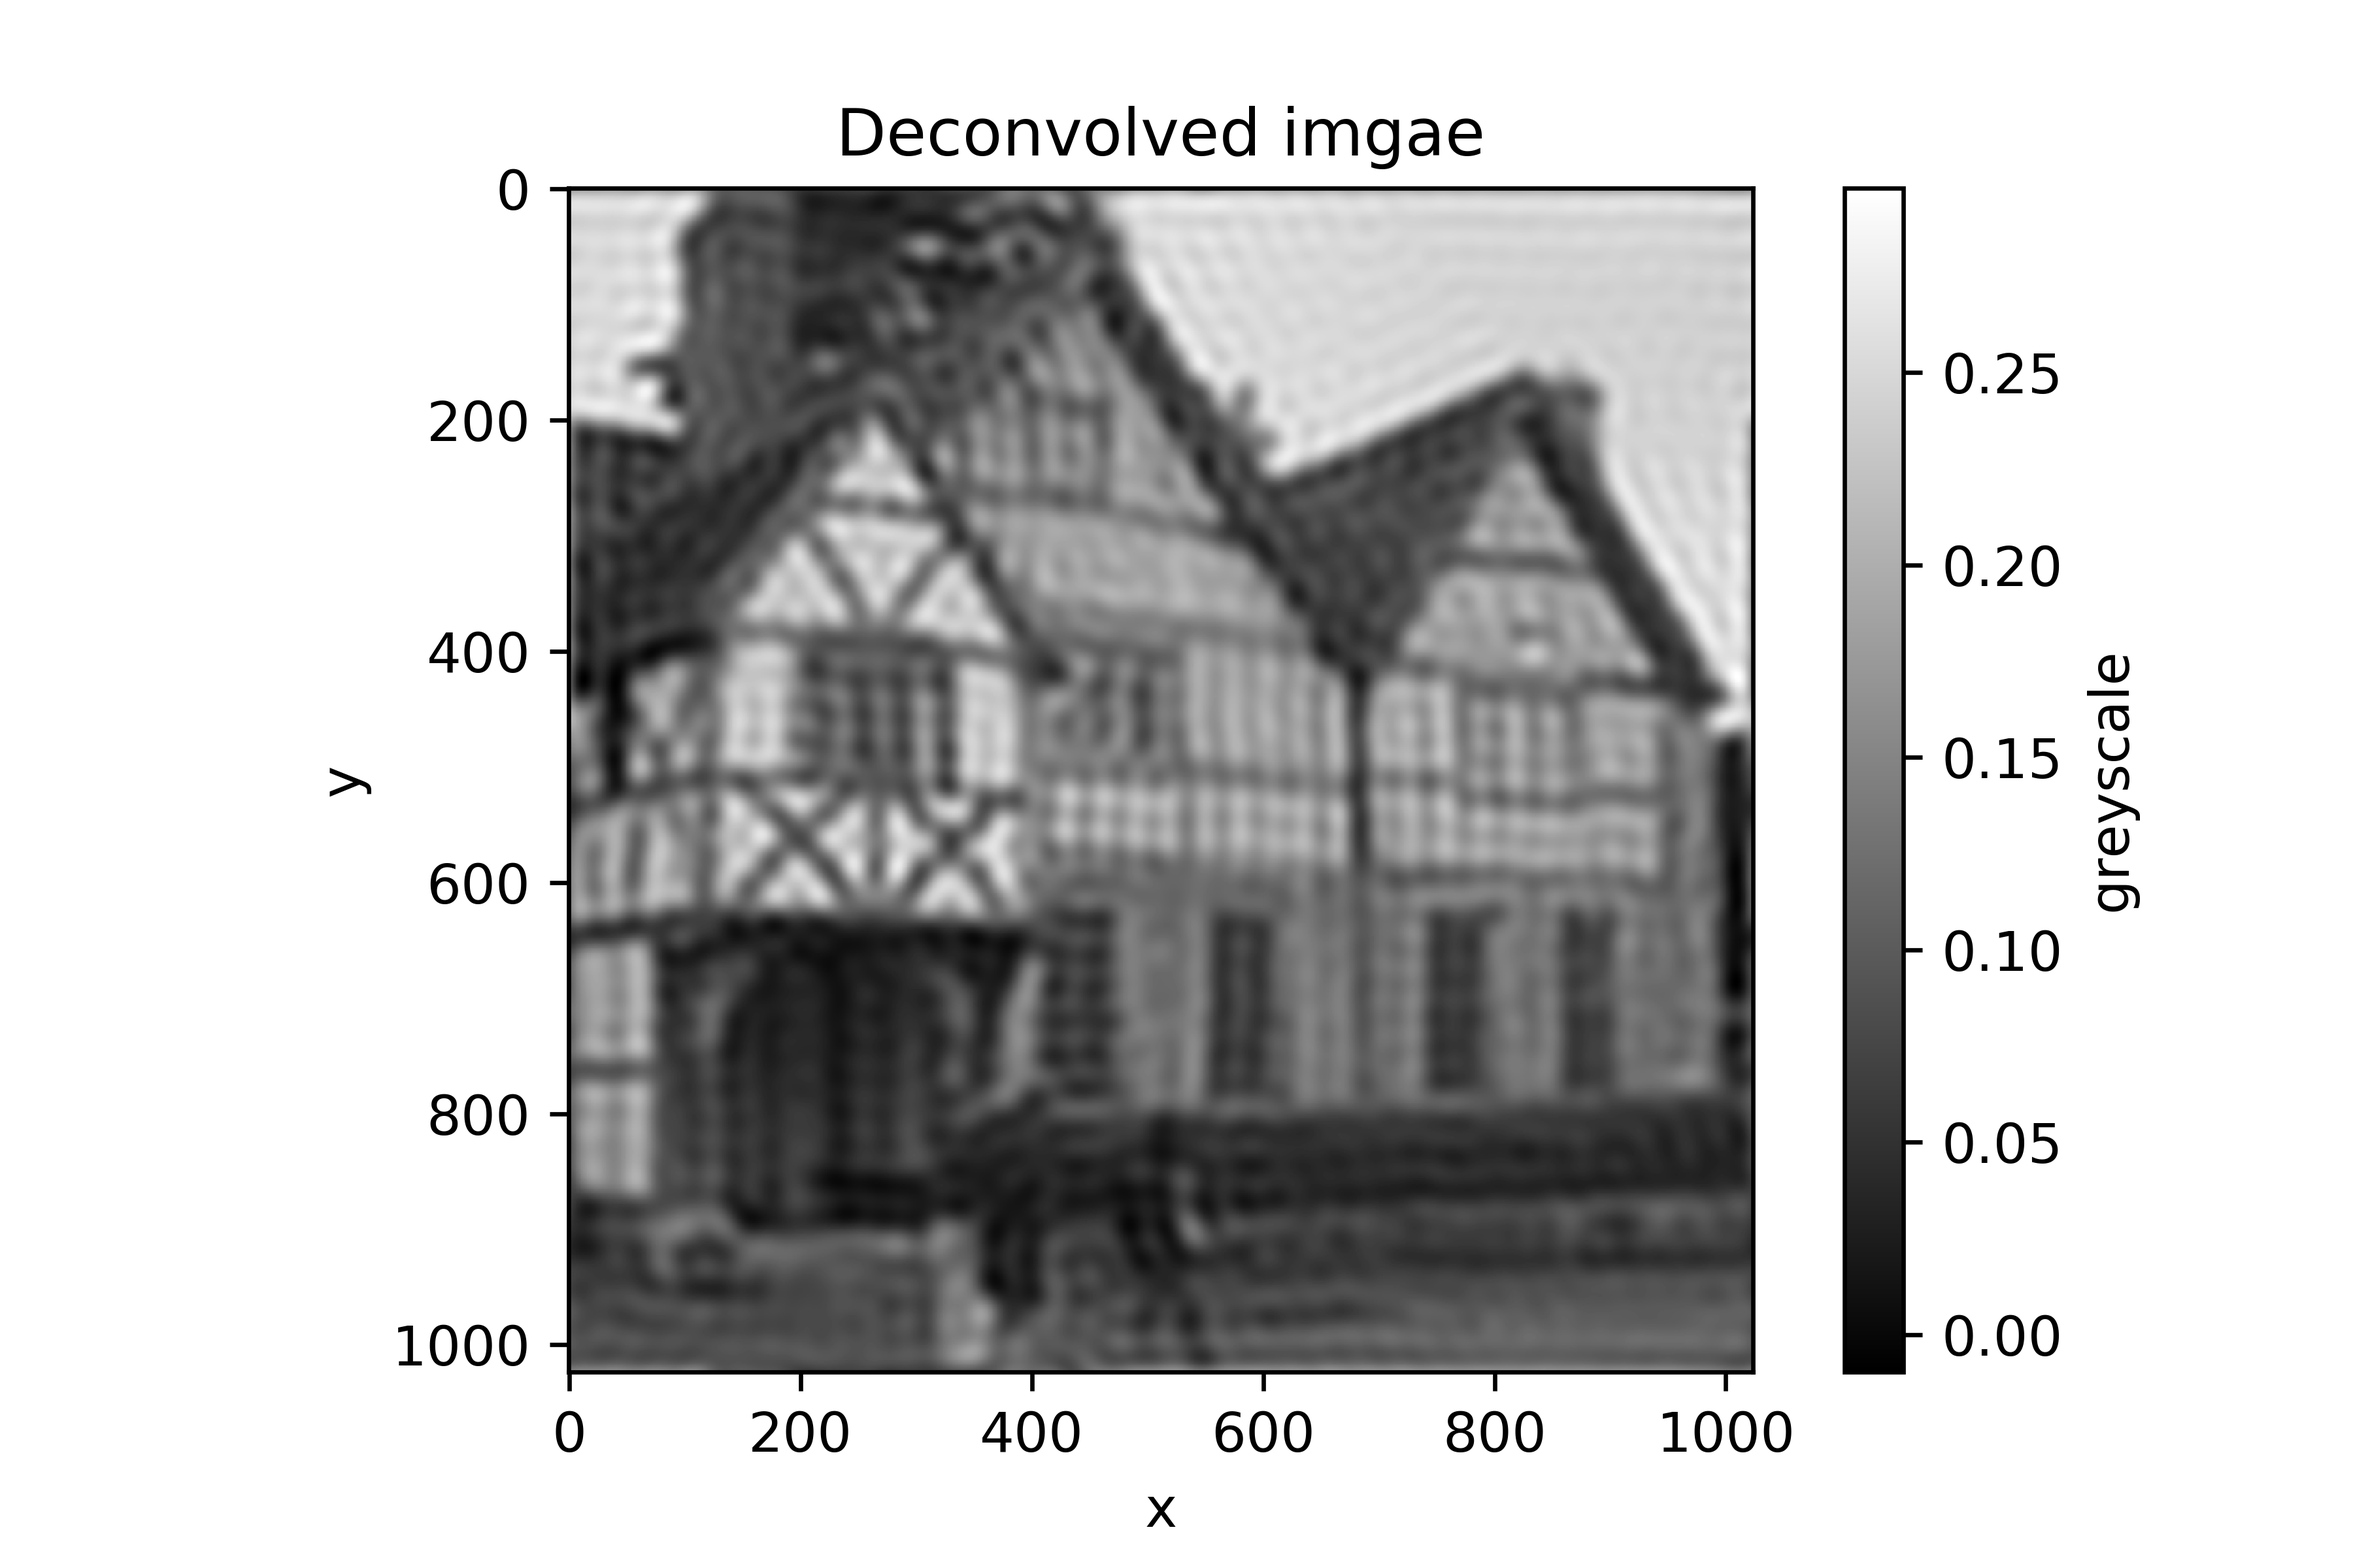
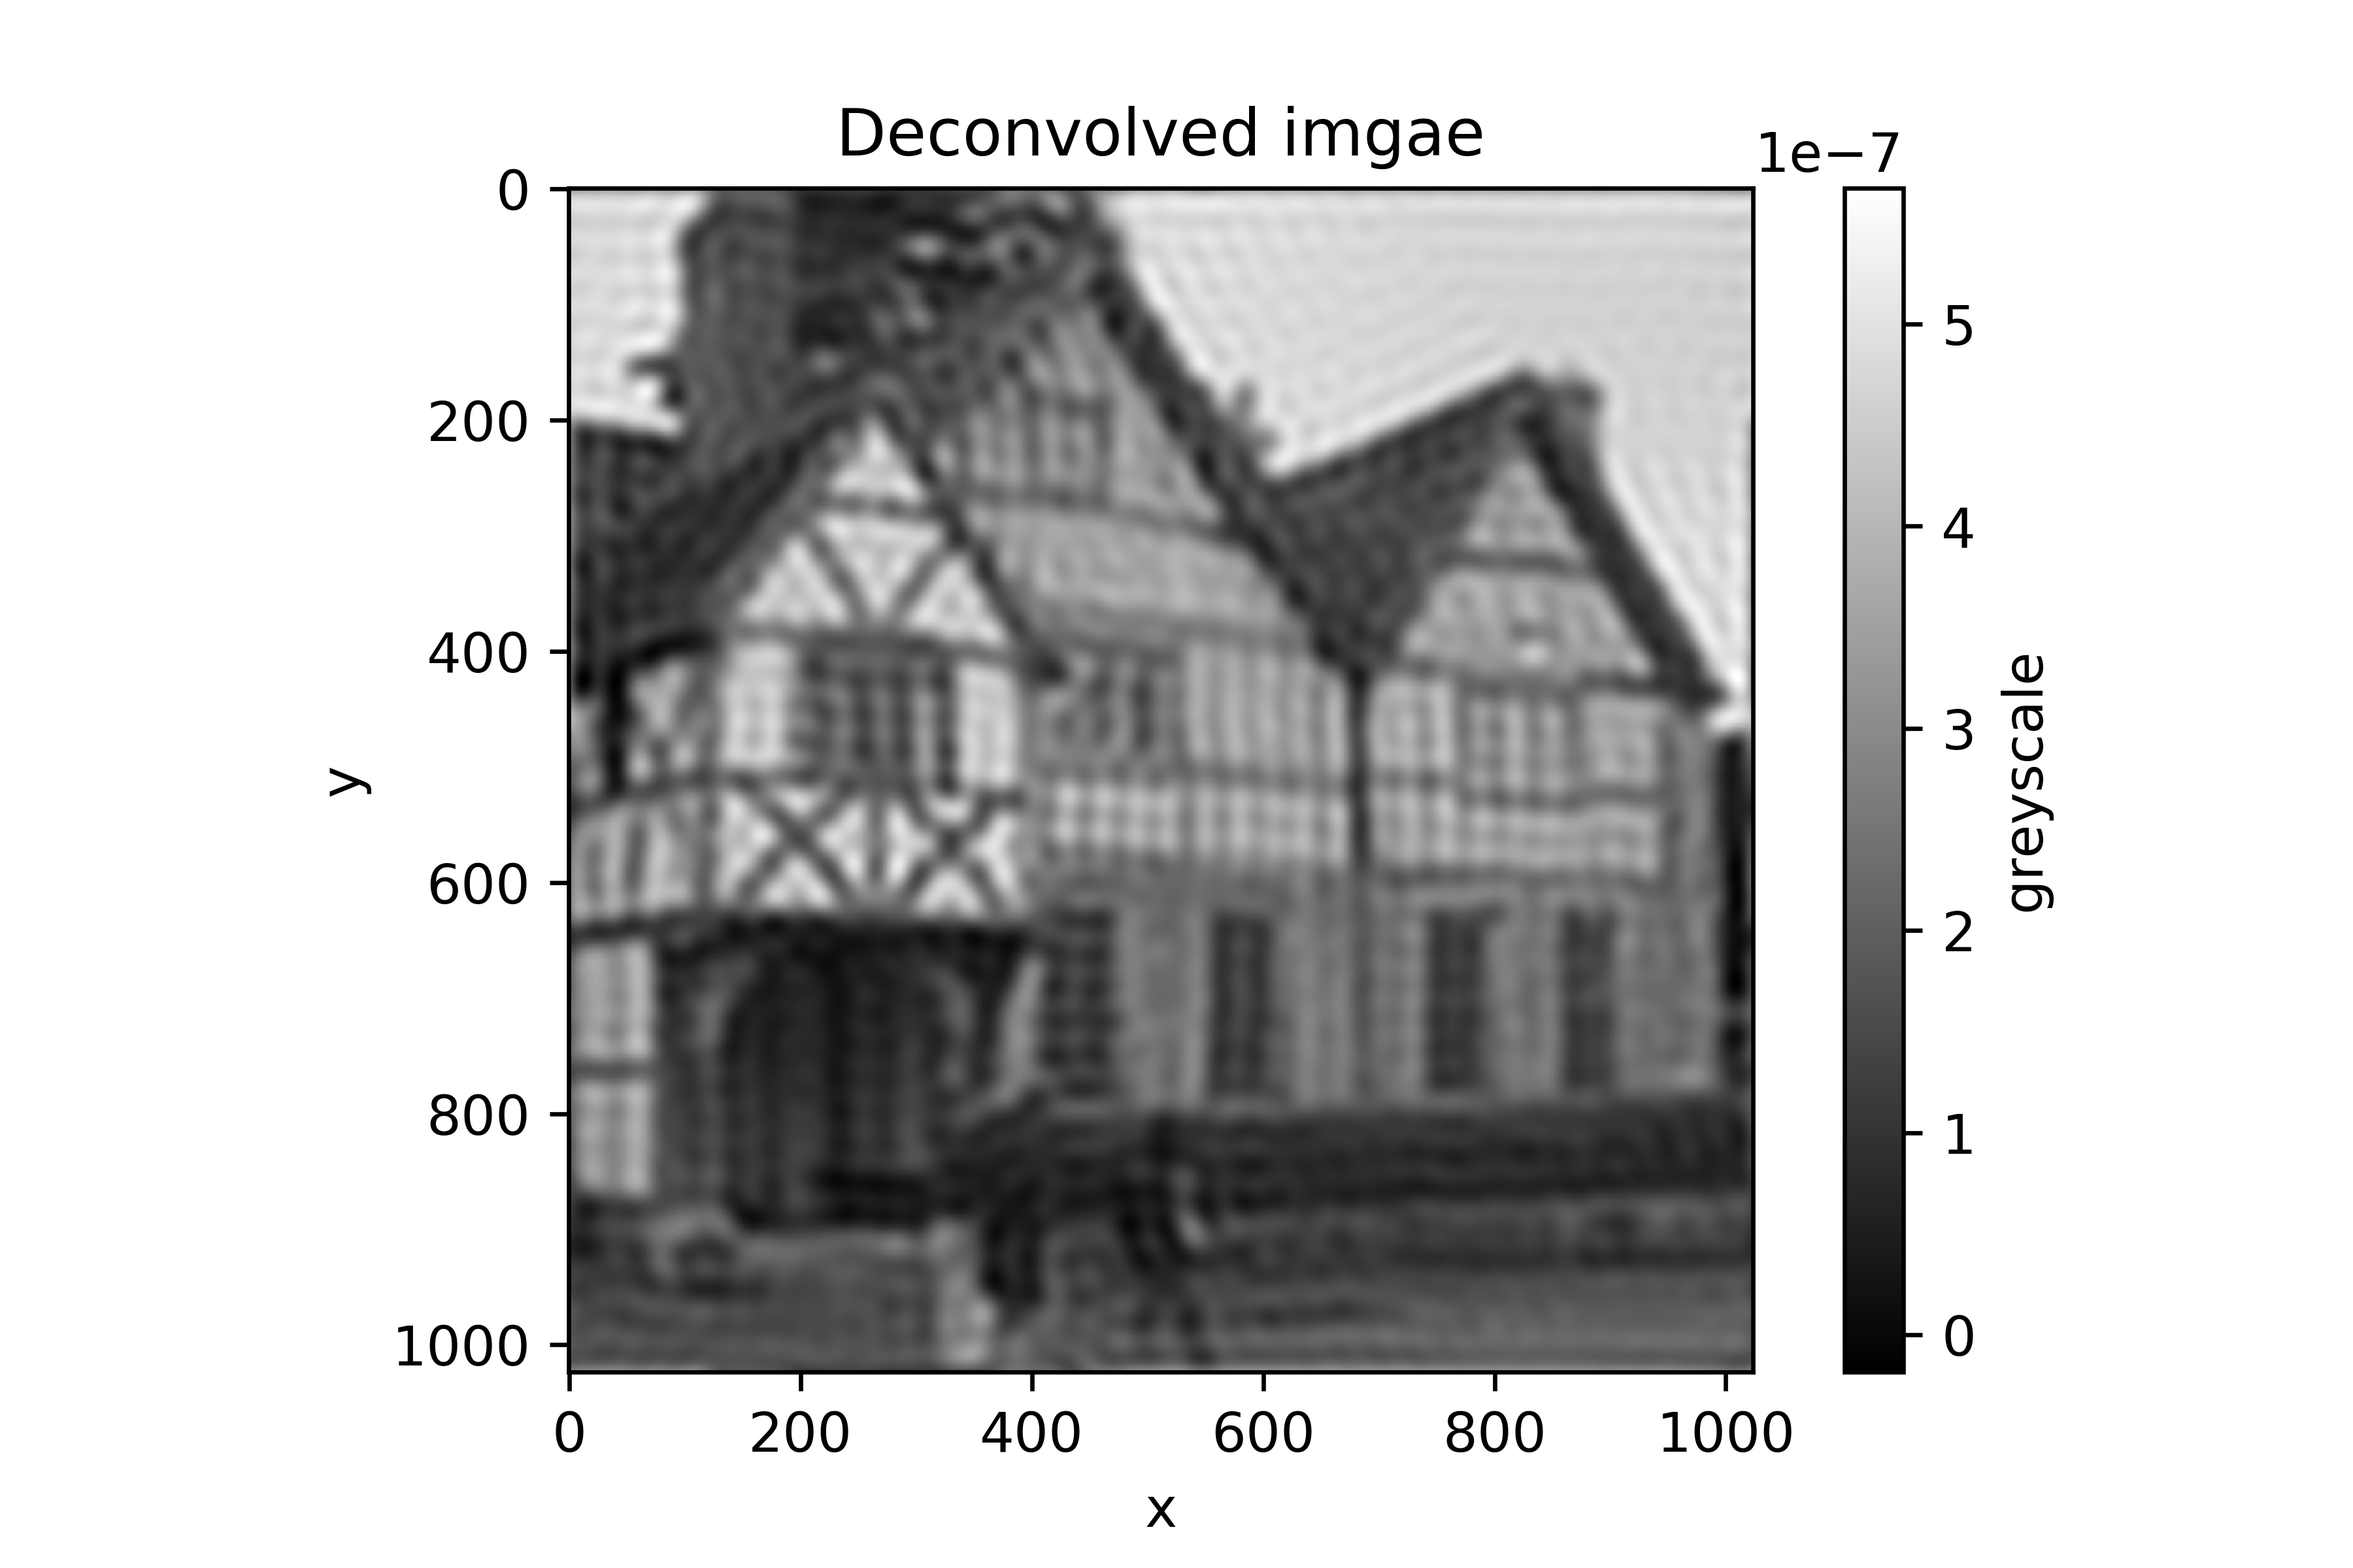
fixed a factor in Q2

diff --git a/Lab05/tex_file/PHY407_Lab05.tex b/Lab05/tex_file/PHY407_Lab05.tex
@@ -194,7 +194,7 @@ and getting a value of $0.441$. Using this the coefficient of the largest peaks 
 
 
 \section{Newman 7.9: Image Deconvolution}
-The Fourier transform is very useful for filtering out noise from a given data set. Extending this principle to a set of two dimensional data that corresponds to an image, we can perform a deconvolution of the image and output a sharper image. This question does exactly this by computing the Fourier transform of a blurry image and a point spread function, combining the two through the relation $a_{kl} = \frac{b_{kl}}{f_{kl}}$ where $a_{kl}$ is the Fourier transform of the clear image data, $b_{kl}$ is the Fourier transform of the blurry image data, and $f_{kl}$ is the Fourier transform of the point spread function.
+The Fourier transform is very useful for filtering out noise from a given data set. Extending this principle to a set of two dimensional data that corresponds to an image, we can perform a deconvolution of the image and output a sharper image. This question does exactly this by computing the Fourier transform of a blurry image and a point spread function, combining the two through the relation $a_{kl} = \frac{b_{kl}}{KLf_{kl}}$ where $a_{kl}$ is the Fourier transform of the clear image data, $b_{kl}$ is the Fourier transform of the blurry image data, $f_{kl}$ is the Fourier transform of the point spread function, and K \& L are the dimensions of the data.
 
 \subsection{Part a)}
 Using the blur.txt data file from Newman's Computational Physics site, a greyscale density plot of the data is shown in figure \ref{fig:blurred_image}. The image appears with high resolution but out of focus which allows us to sharpen the image via this process.
@@ -218,7 +218,7 @@ The Gaussian point spread function $f(x,y) = exp(-\frac{x^2+y^2}{2\sigma^2})$, p
 
 \subsection{Part c)}
 Using the results from part a) and b) we applied a Fourier transform, using the numpy function rfft2, to both the blurred image data set and the spread function data set.
-The fft of the blurred image was then divided by the fft of the spread function as described above. To account for the small and possibly zero valued entries in the spread function data set, a cutoff value of $10^{-3}$ was used (wherein the spread function was not applied if the entry values was below the cutoff). Additionally, the textbook notes that the blurred data set should also be divided by the dimensions of the data set, however providing this additional factor resulting in a failure of the deconvolution.
+The fft of the blurred image was then divided by the fft of the spread function as described above. To account for the small and possibly zero valued entries in the spread function data set, a cutoff value of $10^{-3}$ was used (wherein the spread function was not applied if the entry values was below the cutoff). Additionally, the textbook notes that the blurred data set should also be divided by the dimensions of the data set as shown above, however we noticed that providing this additional factor only resulted in a scaling down of the greyscale values with no visible change in the actual image.
 The adjusted fft data was then pass through the inverse, irfft2, function to retrieve a sharpened data set of the original image, which has been graphed in the density plot shown in figure \ref{fig:deconvolved_image}. The resulting image still contains some noise within it however we can now clearly see that the original image was taken of a house with a couple of people walking by in front of it. 
 
 \begin{figure}[H]

diff --git a/Lab05/code/Lab05_Q2.py b/Lab05/code/Lab05_Q2.py
@@ -75,9 +75,9 @@ sharp_data_fft = np.zeros((J,K), dtype=np.complex_)
 for i in range(J):
     for j in range(K):
         if gauss_fft[i,j] > epsilon:
-            sharp_data_fft[i,j] = data_fft[i,j]/gauss_fft[i,j]
+            sharp_data_fft[i,j] = data_fft[i,j]/gauss_fft[i,j]/J/K
         else:
-            sharp_data_fft[i,j] = data_fft[i,j]
+            sharp_data_fft[i,j] = data_fft[i,j]/J/K
 
 #apply inverse fourier transform to retrieve clear image data
 sharp_data = irfft2(sharp_data_fft)
